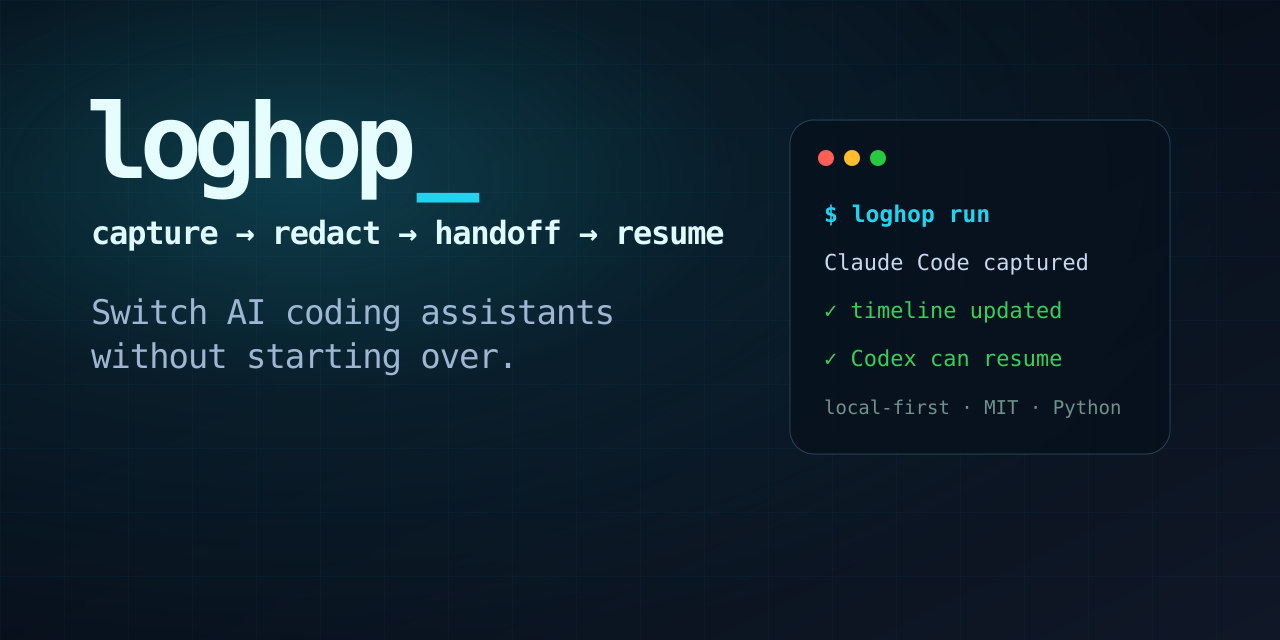
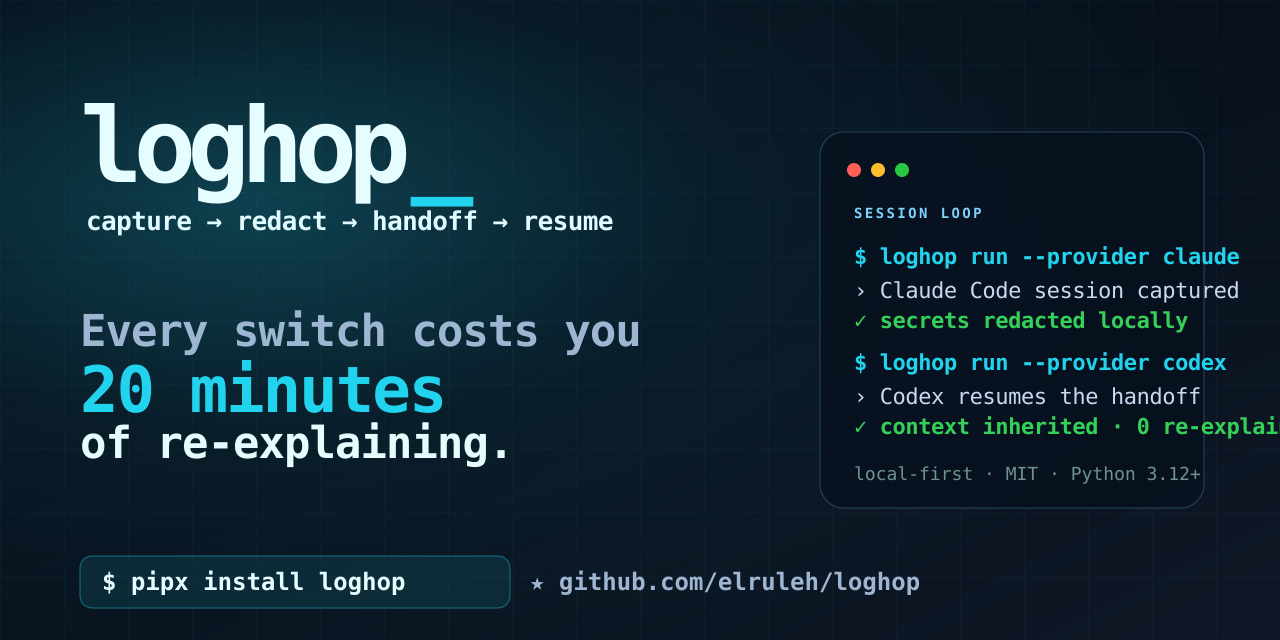
docs: add comparison page, refresh social preview, star badge
- New docs/explanation/comparison.md: honest comparison of loghop vs
  Aider, Cursor, Cline, Roo Code, Continue, Claude sessions, Copilot,
  Gemini CLI and manual copy-paste, with 'when to use what' guidance.
  Linked from the doc sidebar as 'vs other tools'.
- Refresh social preview (PNG + SVG): leads with the switching pain
  and an explicit GitHub stars CTA, keeping the existing editorial
  palette and AAA-verified contrast.
- Add a GitHub stars badge to the landing hero for social proof.
- Ignore the local marketing/ folder and audit scratch dir so only
  project-grade content ships in the repo.

diff --git a/docs/_layouts/default.html b/docs/_layouts/default.html
@@ -46,6 +46,7 @@
       <a href="{{ '/reference/exit-codes.html' | relative_url }}">Exit codes</a>
       <strong>Explanation</strong>
       <a href="{{ '/explanation/how-it-works.html' | relative_url }}">How it works</a>
+      <a href="{{ '/explanation/comparison.html' | relative_url }}">vs other tools</a>
       <a href="{{ '/explanation/security-model.html' | relative_url }}">Security model</a>
       <strong>Operations</strong>
       <a href="{{ '/operations.html' | relative_url }}">Operations</a>

diff --git a/docs/explanation/comparison.md b/docs/explanation/comparison.md
@@ -1,0 +1,102 @@
+---
+layout: default
+title: loghop vs other AI coding tools
+description: How loghop compares to Aider, Cursor, Cline, Roo Code, Continue, Claude Code sessions, Copilot and manual copy-paste — and where each tool fits.
+nav_order: 11
+---
+
+# loghop vs other AI coding tools
+
+loghop is **not** a replacement for your AI coding assistant. It's the
+**handoff layer** that sits *between* assistants, so context survives when
+you switch tools. Most tools in this space are excellent at what they do —
+the question is whether they solve the *switching* problem.
+
+> If you only ever use one assistant, you don't need loghop. If you use two
+> or more (Claude Code *and* Codex, or an IDE agent *and* a CLI agent), this
+> page is for you.
+
+## The core distinction
+
+| Category | What it does | Examples |
+|---|---|---|
+| **AI coding assistants** | Do the actual coding | Claude Code, Codex, Cursor, Aider, Cline, Copilot |
+| **Handoff layer** | Carries context *across* assistants | **loghop** |
+
+loghop is the only category in the second row. It complements the first.
+
+## Comparison table
+
+| Tool | Cross-tool handoff | Multi-provider | Auto-capture | Secret redaction | Local-only | License |
+|---|:---:|:---:|:---:|:---:|:---:|---|
+| **loghop** | ✅ Structured handoff packets | ✅ Claude + Codex (extensible) | ✅ Native transcripts | ✅ Built-in pipeline | ✅ Fully | MIT |
+| Aider | ❌ Single session | ❌ Aider only | N/A | ✅ Good | ✅ | Apache-2.0 |
+| Cursor | ❌ IDE session only | ❌ Cursor only | ✅ Within IDE | ⚠️ Cloud-assisted | ❌ Partial | Proprietary |
+| Cline / Roo Code | ❌ Per-extension | ❌ VS Code only | ✅ Within IDE | ⚠️ Depends on model | ❌ Partial | Apache-2.0 |
+| Continue | ❌ Per-IDE config | ⚠️ Model-agnostic, no handoff | ⚠️ Config-driven | ⚠️ Depends | ❌ Partial | Apache-2.0 |
+| Claude Code sessions | ⚠️ Project files, Claude-only | ❌ Claude only | ✅ Native | ✅ Good | ✅ | Proprietary |
+| GitHub Copilot | ❌ Inline only | ❌ GitHub only | ❌ No session concept | ⚠️ Cloud | ❌ | Proprietary |
+| Gemini CLI | ❌ Single agent | ❌ Gemini only | ✅ Native | ⚠️ Varies | ✅ | Proprietary |
+| Manual copy-paste | ⚠️ Fragile | ✅ Any | ❌ Manual | ❌ Leaks secrets | ✅ | — |
+
+## When to use what
+
+### Use loghop if…
+- You switch between Claude Code and Codex (or plan to add Gemini CLI).
+- You're tired of re-explaining the project every time you change tools.
+- You want session logs in your repo **without** leaking API keys.
+- You work locally-first and don't want telemetry or cloud sync.
+
+### Use Aider if…
+- You want a single, excellent git-native coding partner and never switch.
+- Aider's edit-format and git workflow are enough for your loop.
+
+### Use Cursor / Cline / Roo Code if…
+- You live inside an IDE and want the AI integrated into the editor.
+- You don't need to hand off to a *different* tool.
+
+> loghop works **alongside** all of these. You can run Cursor in the IDE and
+> still use loghop to capture CLI sessions for a teammate or a different
+> assistant.
+
+### Use Claude Code's native sessions if…
+- You only ever use Claude Code, never anything else.
+
+### Use plain copy-paste if…
+- You switch tools once a month and don't mind the 20-minute tax each time.
+
+## What makes loghop different
+
+1. **Provider-agnostic by design.** The `BaseProvider` contract is four
+   methods. Adding Gemini CLI is ~50 lines.
+2. **Redaction is not optional.** AWS, GitHub, Slack, SendGrid tokens (and
+   generic API keys) are stripped *before* anything is stored or handed off.
+   You can add your own patterns in `config.toml`.
+3. **Local-first, zero telemetry.** Everything lives in `.loghop/` inside
+   your repo. No cloud, no analytics, no phone-home.
+4. **Handoffs are markdown, not magic.** The next assistant reads a
+   human-readable `.md` packet — no proprietary format lock-in.
+
+## Honest limitations
+
+loghop doesn't try to be everything:
+
+- **Not an agent.** It doesn't write code. Your assistant does.
+- **Not an IDE plugin.** The interface is a CLI and a TUI.
+- **Not multi-user (yet).** It's a single-developer workflow tool. If you
+  want to back up `.loghop/` to a git remote, that works.
+- **Two providers today.** Claude Code and Codex ship now. Gemini CLI is the
+  next target — contributions welcome.
+
+## Migrating into loghop
+
+If you have existing session history in `~/.claude/projects/` or
+`~/.codex/sessions/`, loghop will pick up new sessions from the next
+`loghop run`. We don't (yet) have a bulk-import tool for historical
+transcripts — see [issue tracker](https://github.com/elruleh/loghop/issues)
+for migration helpers.
+
+---
+
+*Is a tool missing from this table or described incorrectly? Open a PR —
+comparisons only stay useful if they stay honest.*

diff --git a/docs/index.md b/docs/index.md
@@ -14,6 +14,7 @@ description: Switch AI coding assistants without starting over.
       <a class="button secondary" href="https://github.com/elruleh/loghop">View on GitHub</a>
     </div>
     <div class="badges" aria-label="Project status badges">
+      <a href="https://github.com/elruleh/loghop" aria-label="Star loghop on GitHub"><img src="https://img.shields.io/github/stars/elruleh/loghop?style=social" alt="GitHub stars"></a>
       <img src="https://img.shields.io/pypi/v/loghop?color=%2334D058&label=pypi%20package" alt="PyPI package version">
       <img src="https://img.shields.io/pypi/pyversions/loghop.svg?color=%2334D058" alt="Supported Python versions">
       <img src="https://github.com/elruleh/loghop/actions/workflows/ci.yml/badge.svg?branch=main" alt="CI status">